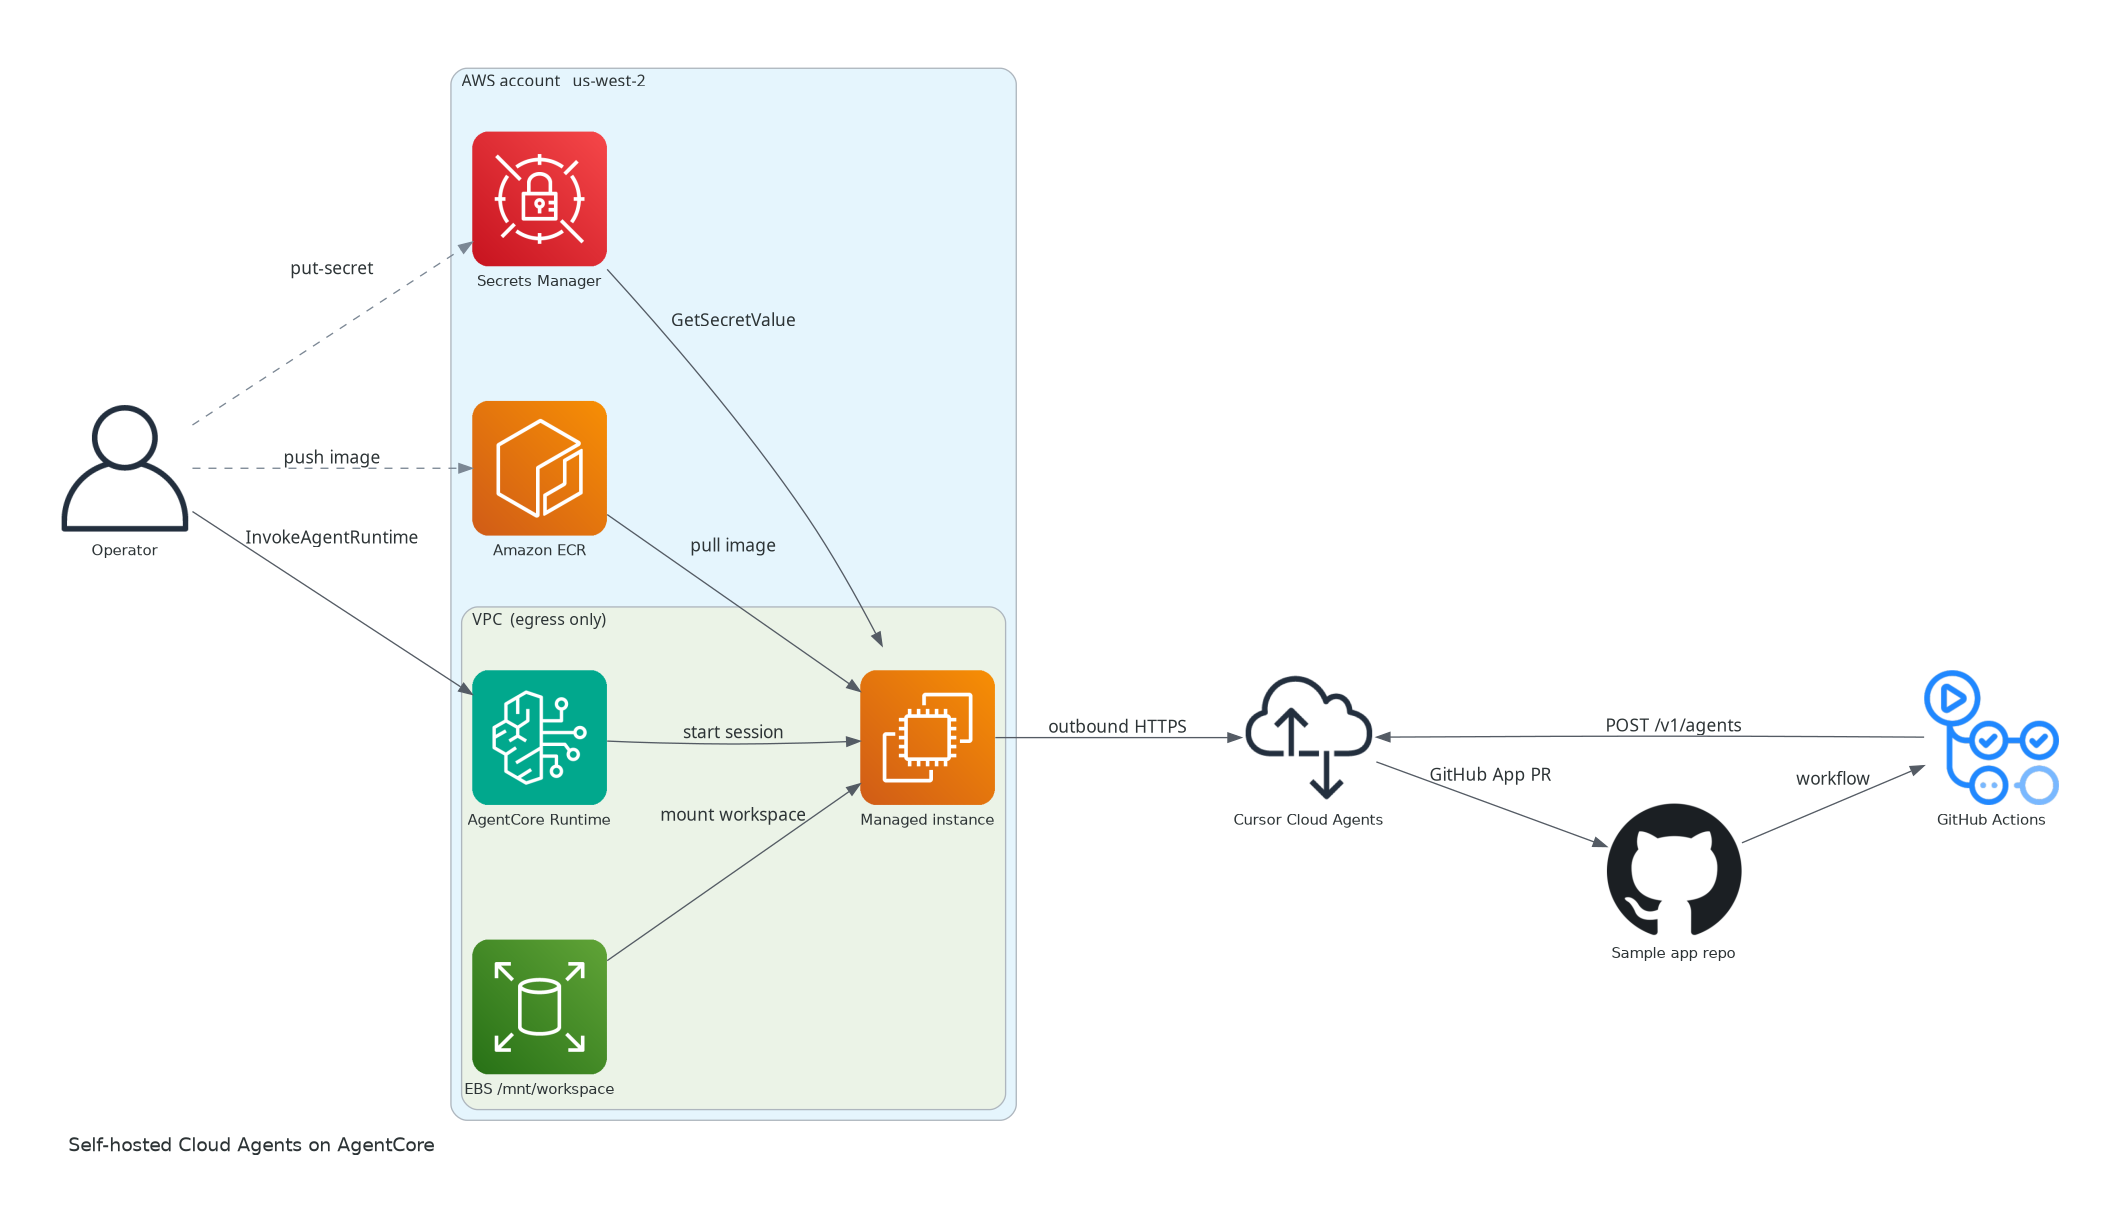
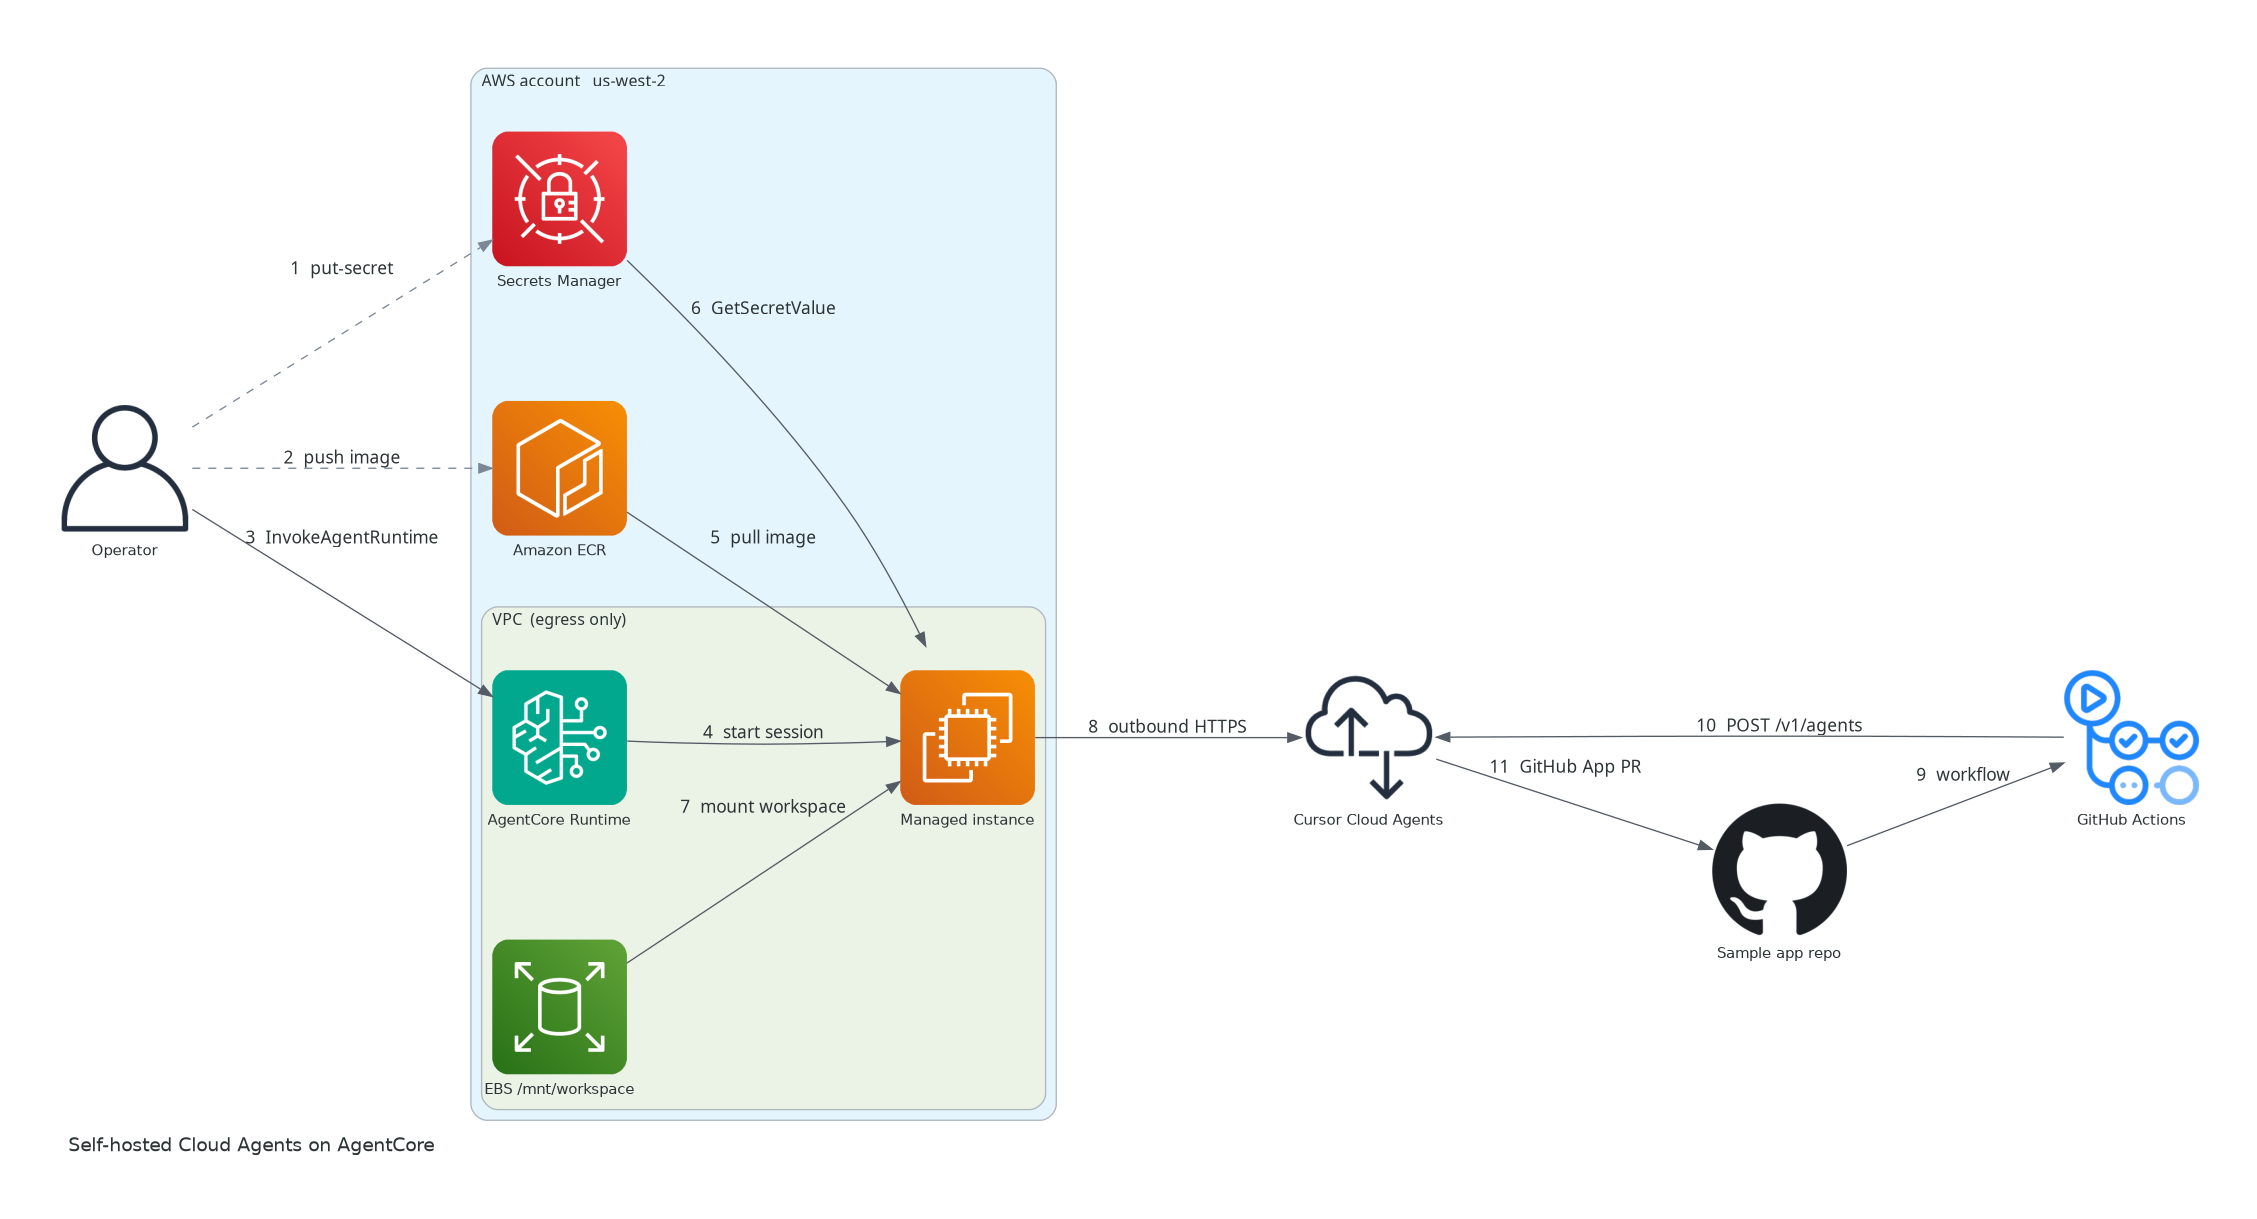
Number the AgentCore architecture diagram edges.
Label the eleven flows 1–11 so setup, session start, registration,
kickoff, and the PR can be read in order.

diff --git a/self-hosted-cloud-agent/agentcore/diagrams/render_architecture.py b/self-hosted-cloud-agent/agentcore/diagrams/render_architecture.py
@@ -34,7 +34,7 @@ def main() -> None:
         "labeljust": "l",
     }
     node_attr = {"fontsize": "11", "fontname": "Helvetica"}
-    edge_attr = {"fontsize": "10", "fontname": "Helvetica", "color": "#545B64"}
+    edge_attr = {"fontsize": "11", "fontname": "Helvetica", "color": "#545B64"}
 
     with Diagram(
         "Self-hosted Cloud Agents on AgentCore",
@@ -58,19 +58,19 @@ def main() -> None:
                 instance = EC2("Managed instance")
                 volume = ElasticBlockStoreEBS("EBS /mnt/workspace")
 
-        operator >> Edge(label="put-secret", style="dashed", color="#7B8794") >> secrets
-        operator >> Edge(label="push image", style="dashed", color="#7B8794") >> ecr
-        operator >> Edge(label="InvokeAgentRuntime") >> runtime
+        operator >> Edge(label="1  put-secret", style="dashed", color="#7B8794") >> secrets
+        operator >> Edge(label="2  push image", style="dashed", color="#7B8794") >> ecr
+        operator >> Edge(label="3  InvokeAgentRuntime") >> runtime
 
-        secrets >> Edge(label="GetSecretValue") >> instance
-        ecr >> Edge(label="pull image") >> instance
-        volume >> Edge(label="mount workspace") >> instance
-        runtime >> Edge(label="start session") >> instance
+        runtime >> Edge(label="4  start session") >> instance
+        ecr >> Edge(label="5  pull image") >> instance
+        secrets >> Edge(label="6  GetSecretValue") >> instance
+        volume >> Edge(label="7  mount workspace") >> instance
 
-        instance >> Edge(label="outbound HTTPS") >> cursor
-        github >> Edge(label="workflow") >> actions
-        actions >> Edge(label="POST /v1/agents") >> cursor
-        cursor >> Edge(label="GitHub App PR") >> github
+        instance >> Edge(label="8  outbound HTTPS") >> cursor
+        github >> Edge(label="9  workflow") >> actions
+        actions >> Edge(label="10  POST /v1/agents") >> cursor
+        cursor >> Edge(label="11  GitHub App PR") >> github
 
 
 if __name__ == "__main__":

diff --git a/self-hosted-cloud-agent/agentcore/README.md b/self-hosted-cloud-agent/agentcore/README.md
@@ -47,7 +47,7 @@ The capacity provider and agent runtime are managed through `aws_cloudcontrolapi
 
 ![Self-hosted Cloud Agents on AgentCore](diagrams/architecture.png)
 
-Dashed edges are setup (secrets and image). Solid edges are session start, registration, kickoff, and the PR.
+Dashed edges (1–2) are setup. Solid edges (3–11) are session start, registration, kickoff, and the PR.
 
 Detailed runbook (how to `export` / `.env` each variable, where it lands, and the 15-step commands): [`diagrams/secrets-and-flow.png`](diagrams/secrets-and-flow.png). Command sequence: [`terraform/README.md`](terraform/README.md).
 
